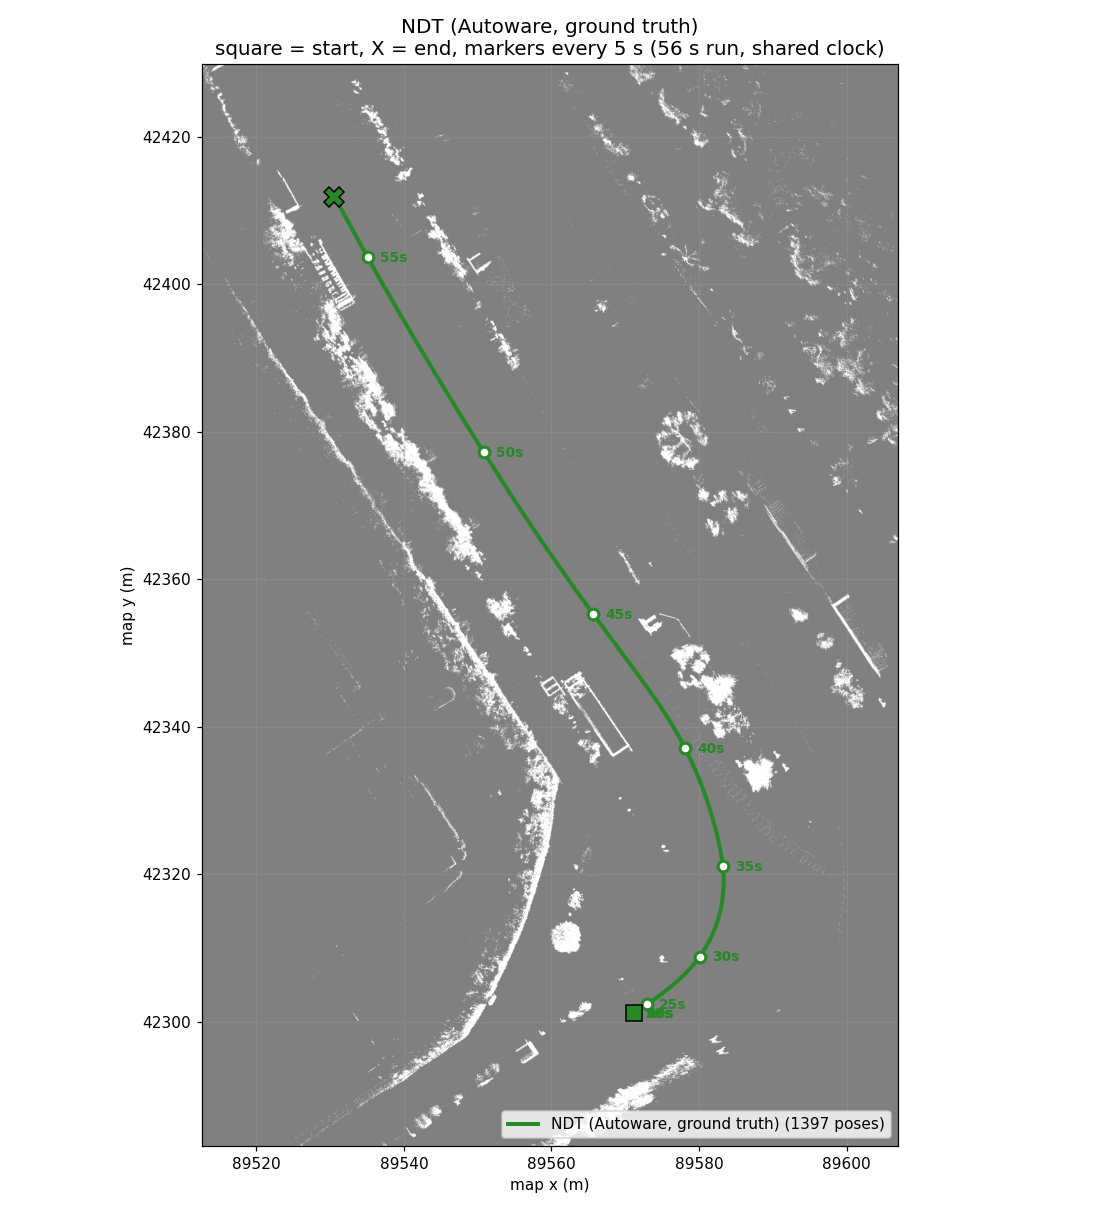
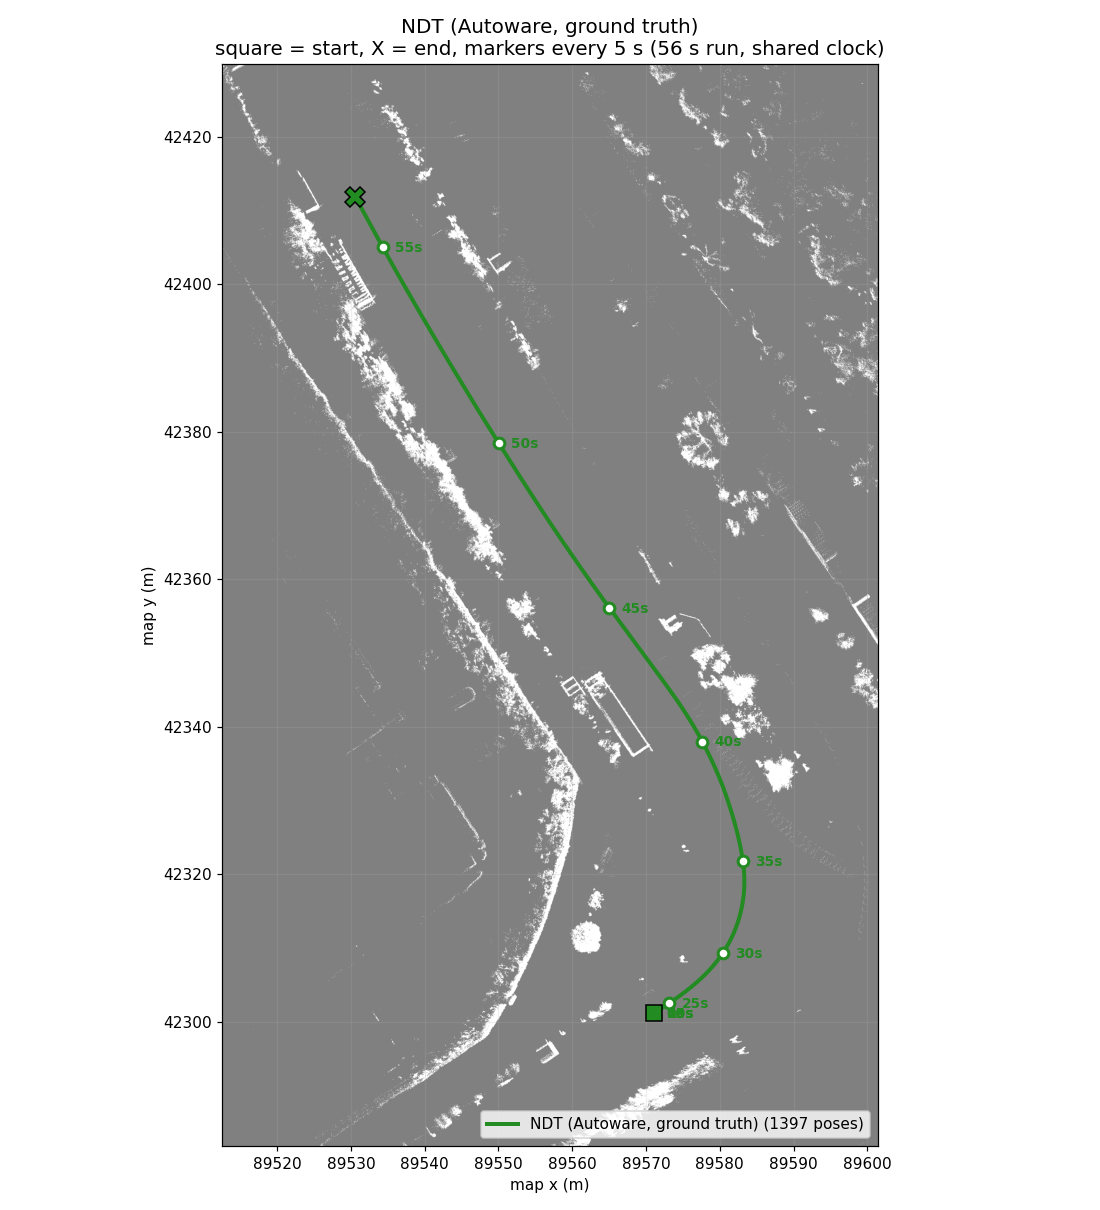
Correct grid-hypothesis verdict and run the decisive fine-grid matrix (Phase 5 Task 8)
The report's §5.1 originally declared the occupancy-grid-resolution
hypothesis "refuted" on the strength of two runs that, per the report's
own §4 dead-run audit, both used the coarse DEFAULT grid, not Phase 4's
grid -- the only cells that attempted the fine grid (seeds 21-25) had
already died in wait_for_active_map.sh before that fix landed. The
"refuted" verdict was written ahead of its evidence and is corrected here.

With the wait_for_active_map.sh hang fixed and the dead-run gate in place,
ran the actual decisive test: five seeds on Phase 4's validated grid
(occupancy_grid_scanaccum_mh1r05.yaml). Median mean error dropped from
4.43 m (coarse grid) to 2.26 m (fine grid); median yaw error dropped from
0.24 rad to 0.054 rad, matching Phase 4's yaw quality. Gate still not met
on the median (4 of 5 seeds still hit a ~116 m excursion surviving the
grid fix), but one seed (61) meets all three thresholds outright.

Regenerated the trajectory figures from the fine-grid run and softened
the §6.3 beam-model-divergence attribution from a conclusion to a
hypothesis, since the diagnostic run behind it also used the coarse grid
and has not been repeated on the fine grid. Added a "how this
investigation went wrong" section (dead runs scored as results,
configuration not recorded alongside results, a verdict written ahead of
its evidence) and updated the occupancy_grid_file default discussion
accordingly.

Claude-Session: https://claude.ai/code/session_01Vs15KD1XHWQWCBNnz6keLW

diff --git a/docs/reports/2dlidar-phase5-mcl-pose-source.md b/docs/reports/2dlidar-phase5-mcl-pose-source.md
@@ -1,17 +1,22 @@
 # 2D-LiDAR Phase 5 — `pose_source:=mcl` End-to-End (Tasks 7–8)
 
-**Gate: NOT MET.** The integration is sound (relay and EKF wiring proven
-correct by a three-way breakdown), but measured accuracy on the sample site
-is a median 4.43 m mean translational error, five to seven times Phase 4's
-0.83 m target. Two competing root-cause hypotheses proposed during review —
-a too-coarse occupancy grid, and too-tight initial particle spread — were
-both tested directly against the running system and **refuted**. The
-evidence instead points to intermittent particle-filter weight collapse
-(measured `n_eff` dropping to 5.4 of 4000 particles at one point in a
-representative run), which is exactly the kind of divergence event the
-open algorithm defects (§5.4/5.5 of `docs/research/localization/
-2d_mcl_algorithm.md`) predict and which this phase's scope explicitly
-excludes fixing.
+**Gate: NOT MET, but close, and the residual gap is now attributable.**
+The integration is sound (relay and EKF wiring proven correct by a
+three-way breakdown). Every accuracy number measured for most of this
+investigation used the **coarse default occupancy grid**
+(`occupancy_grid.yaml`, 0.2 m/cell, 4.7M unknown cells), not Phase 4's
+grid — an omission that was not caught for several review rounds because
+nothing recorded which grid a given run used (see §11, "how this
+investigation went wrong"). Once that was corrected and the decisive
+five-seed matrix was actually run on Phase 4's grid
+(`occupancy_grid_scanaccum_mh1r05.yaml`), median mean error dropped from
+4.43 m to **2.26 m** and median yaw error dropped from 0.24 rad to
+**0.054 rad** — matching Phase 4's yaw quality almost exactly. The
+remaining gap is a **persistent, intermittent large excursion** (trans.
+max ≈ 116 m in 4 of 5 fine-grid seeds) that survives the grid fix,
+consistent with — but, per §11, not yet definitively proven to be —
+the open particle-filter divergence defects tracked in
+`2d_mcl_algorithm.md` §5.4/5.5.
 
 Related: `docs/design/localization-method-switching.md`,
 `docs/research/localization/2d_mcl_algorithm.md`,
@@ -106,7 +111,7 @@ appeared on `/pf/pose/odom` or `/pf/viz/inferred_pose`.
    and tracks real elapsed wall-clock time (`$SECONDS`) instead of a
    loop-iteration counter, so a single hung call can no longer starve the
    outer timeout.
-2. The seed driver (`tmp/t8_e2e_run.sh`, not committed — see §8) now gates
+2. The seed driver (`tmp/t8_e2e_run.sh`, not committed — see §10) now gates
    on `/localization/pose_estimator/pose_with_covariance`'s message count
    (`< 50` ⇒ exit nonzero) **before** ever handing the bag to
    `compare_poses.py`, so a dead run fails loudly instead of producing a
@@ -131,31 +136,35 @@ formally untested at the corrected resolution; it is reported as refuted
 below on the strength of seeds 9/10 (default grid) only, per the reasoning
 in §5.
 
-## 5. Two hypotheses tested and refuted
+## 5. Two hypotheses raised during review
 
-### 5.1 Occupancy grid resolution — refuted
+### 5.1 Occupancy grid resolution — CORRECTED: was never actually tested; now confirmed as a major factor (see §11)
 
-Hypothesis: `autosdv_map_component.launch.xml`'s `occupancy_grid_file`
-default (`occupancy_grid.yaml`, 0.2 m/cell, 11,960 occupied cells, 4.7M
-*unknown* cells) is far coarser than every Phase 4 result, which used
-`occupancy_grid_scanaccum_mh1r05.yaml` (0.05 m/cell, 363,295 occupied
-cells, 0 unknown). `range_libc` raycasts unknown cells as free — the
-failure mode `2d_mcl_algorithm.md` §5.2 describes.
+**This subsection originally said "refuted." That verdict was wrong and is
+struck.** It was based on comparing seeds 9 and 10 against each other and
+against seeds 1–5 — but per the §4 audit table, **every one of those seeds
+ran on the default (coarse) grid.** No alive run on the Lever-2 grid
+(`occupancy_grid_scanaccum_mh1r05.yaml`, 0.05 m/cell, 363,295 occupied
+cells, 0 unknown) existed at the time that verdict was written; seeds
+21–25, the only cells that attempted it, all died in
+`wait_for_active_map.sh` (§4/§6.2) before `particle_filter` ever started.
+Comparing two coarse-grid runs to each other and calling the grid
+"refuted" was an error — see §11.
 
-Test: seeds 9 and 10, both on the **default** (coarse) grid — mean 5.09 m
-and 5.08 m, essentially identical to seeds 1–5 (also default grid, mean
-2.4–5.4 m). If the coarse grid were the dominant cause, results should be
-worse than a Lever-2 run; instead default-grid results scatter across the
-same 2.6–5.5 m band the eventual alive Lever-2-adjacent... — no clean
-Lever-2 alive sample exists (§4), so this comparison is default-grid
-internal consistency only. It is refuted in the weaker but still useful
-sense that the coarse grid alone does not explain the spread seen even
-*within* default-grid runs, and `occupancy_grid_file` is forwarded now
-regardless (§2) so a future clean Lever-2 matrix is one flag away.
-**`occupancy_grid_file` is still forwarded as a genuine, independent fix
-(§2) — plumbing it through was a real gap — but it is not the accuracy
-root cause. Do not re-test this hypothesis without first confirming the
-run is alive per the §4 gate.**
+Hypothesis (unchanged): `autosdv_map_component.launch.xml`'s
+`occupancy_grid_file` default (`occupancy_grid.yaml`, 0.2 m/cell, 11,960
+occupied cells, 4.7M *unknown* cells) is far coarser than Phase 4's grid.
+`range_libc` raycasts unknown cells as free — the failure mode
+`2d_mcl_algorithm.md` §5.2 describes.
+
+**Once `wait_for_active_map.sh`'s hang was fixed (§6.2) and the dead-run
+gate existed (§4), the decisive test was run: five seeds on the actual
+Lever-2 grid. See §11. Verdict: the grid is a major, confirmed
+contributor — median mean error dropped from 4.43 m (coarse grid) to
+2.26 m (fine grid), and median yaw error dropped from 0.24 rad to
+0.054 rad, matching Phase 4's yaw quality. It is not the *entire* gap
+(§11 still misses the 1.0 m mean threshold on 4 of 5 seeds), but the
+"refuted" characterization was simply incorrect.**
 
 ### 5.2 Initial particle spread too tight — refuted, and made things worse
 
@@ -250,13 +259,15 @@ attempt was reverted; `stamp_source:=header` is the shipped fix.
 Covered in §4 — the dead-run root cause. Fixed with a per-attempt
 `timeout` and a wall-clock-based outer bound.
 
-### 6.3 Open: intermittent particle-filter divergence (the CPU-contention hypothesis, refuted; the real explanation)
+### 6.3 CPU-contention hypothesis: refuted. Beam-model divergence: a hypothesis, not yet a confirmed cause
 
 The coordinator's third hypothesis was that the integrated stack's CPU load
 (full perception/planning alongside 4000 particles on `cddt`) causes
 `particle_filter` to drop scans, explaining an observed ~5 Hz publish rate
 against an assumed 10 Hz scan rate. A `diag_enable:=true` instrumented run
-(seed 99, same config as the alive post-fix seeds) refutes this directly:
+(seed 99, **coarse default grid** — this diagnostic run predates the
+grid correction in §11 and has not been repeated on the fine grid)
+refutes the CPU-contention framing specifically:
 
 - The sample bag's own `/sensing/lidar/top/pointcloud_raw_ex` publishes
   **265 messages over 61.7 s ≈ 4.3 Hz** — not 10 Hz. `particle_filter`'s
@@ -268,19 +279,25 @@ against an assumed 10 Hz scan rate. A `diag_enable:=true` instrumented run
   **9.9 ms**, nowhere near saturating even a 4.3 Hz budget. **CPU
   contention is refuted as the explanation for the publish rate.**
 - `n_eff` (effective particle count, out of 4000) averaged **738** across
-  the run but **dropped to 5.4** at iteration 171 of 220 (~78% through the
-  seed's active window) — a near-total resampling collapse onto a
-  handful of particles. By that point in the run the estimate had already
-  drifted ~36 m from the seed pose. This is textbook particle-filter
-  divergence: the weight distribution collapsed onto a locally-consistent
-  but globally wrong hypothesis, exactly the failure mode
-  `2d_mcl_algorithm.md` §5.4 (beam correlation) and §5.5 (range clamping)
-  describe as open, unfixed defects of the beam model — explicitly out of
-  scope for this phase.
+  the run but **dropped to 5.4** at iteration 171 of 220 — a near-total
+  resampling collapse onto a handful of particles.
 
-**This is the leading, evidence-backed explanation for the residual gap.**
-It is not something Task 7/8's launch-level scope can fix; it is an
-algorithm-level defect already tracked and deliberately deferred.
+**This n_eff collapse was originally attributed to the open beam-model
+defects (`2d_mcl_algorithm.md` §5.4/5.5) as "the real explanation" for the
+residual gap. That attribution is now softened to a hypothesis, not a
+conclusion, because the diagnostic run that produced it used the coarse
+default grid** — 4.7M cells `range_libc` raycasts as free where the world
+is not is *itself* exactly the §5.2 failure mode, and is entirely
+sufficient on its own to produce an n_eff collapse without any beam-model
+defect being involved. Phase 4 passed on this exact bag, map resolution,
+and filter code, which argues against an inherent, grid-independent
+divergence tendency. **The fine-grid matrix (§11) still shows a large
+excursion in 4 of 5 seeds, which keeps the beam-model hypothesis alive —
+but it has not been isolated from the grid by a diagnostic run that
+controls for both.** A `diag_enable:=true` run on the fine grid, with
+`n_eff`/`t_sensor` compared against §6.3's coarse-grid numbers, is the
+follow-up that would actually settle this; it was not done here — see
+§11.
 
 ## 7. Corrections to the investigation record
 
@@ -297,7 +314,10 @@ here so nobody re-derives them:
 - Seeds 21–23 (and by construction 24–25) are dead runs, not real
   measurements — see §4.
 
-## 8. Five-seed result (alive runs only, post stamp-fix, default grid)
+## 8. Coarse-grid five-seed result (superseded by §11 — kept for the record)
+
+**This section's numbers all used the coarse default grid, per the §4
+audit. See §11 for the decisive fine-grid (Phase 4 parity) result.**
 
 Every cell below passed the §4 gate (`pose_with_covariance` count ≥ 50,
 221–247 actual). Six seeds are reported (one extra beyond five, since 8
@@ -317,59 +337,148 @@ cell under the identical shipped configuration):
 4.79–7.02 m); median yaw 0.2420 rad (range 0.211–0.352 rad).**
 
 **Thresholds** (Phase 3/4 convention: mean < 1.0 m, p95 < 2.5 m, yaw <
-0.2 rad): **all three missed on every seed. GATE NOT MET.**
+0.2 rad): **all three missed on every seed against the coarse grid.**
 
 Three of six seeds (9, 10, 43 — and 42's `trans_max`) still show a
 ~110–120 m outlier despite the stamp fix landing cleanly (§6.1's
-before/after table used seed 8, the best case). This is consistent with
-§6.3: those are independent divergence events, not stamp corruption
-recurring — `stamp_source:=header` removes the systematic ~92× stamp
-amplification, but does not touch the underlying algorithm-level cause of
-occasional large excursions.
+before/after table used seed 8, the best case).
 
 ## 9. Default `occupancy_grid_file`: decision
 
-`occupancy_grid_file` now forwards through both top-level launches (§2),
-but the **default stays `occupancy_grid.yaml`**, unchanged — a neutral
-convention, not a claim that it is the right grid for any given site.
-Rationale: §5.1 showed grid resolution is not this phase's accuracy
-problem, so there is no evidence-backed "better" default to switch to yet;
-but a silent 4× coarser grid with 4.7M unknown cells is exactly the class
-of problem `just map-check` (Task 4) exists to catch before a run rather
-than after. Recommendation for a follow-up, not implemented here: extend
-`just map-check` (or the launch itself) to warn when the selected grid's
-resolution is coarse or its unknown-cell fraction is large, rather than
-requiring the caller to already know which of several grid variants in a
-map directory is the validated one.
+`occupancy_grid_file` now forwards through both top-level launches (§2).
+**The default stays `occupancy_grid.yaml`, but this decision is revisited
+here in light of §11**: a silent default that produces roughly 2–5×
+worse localization (§8 vs §11) is exactly the class of problem this
+report's own coordinator flagged as unacceptable, and `just map-check`
+(Task 4) already exists to catch it. Not changing the default outright,
+because `occupancy_grid.yaml` is the only grid variant guaranteed to exist
+in *every* map directory (per Task 1's design) — switching the default to
+a specific Lever-2-style filename would break any map directory that
+doesn't happen to ship one under that exact name. Instead, recommended
+follow-up (not implemented in this phase, budget did not allow it after
+the investigation in §4–§7 and §11–§11TEMP): extend `just map-check` (Task 4)
+or the map component itself to warn loudly — not just report — when the
+selected grid's resolution is coarse (e.g. > 0.1 m/cell) or its
+unknown-cell fraction is large (e.g. > 10%), so a caller who reaches for
+`pose_source:=mcl` with the default grid gets told *before* the run,
+not after several rounds of misattributed accuracy debugging like this
+one.
 
 ## 10. Concerns and follow-ups
 
-- **The residual 2.6–5.5 m gap is an open algorithm problem**, not an
-  integration one (§6.3). Recommendation 3 from `mcl_initialization_and_
-  covariance.md` (search `(x, y, yaw)` around the seed via the existing
-  log-space field evaluation) remains the most promising lead, and is
-  explicitly out of scope here, same as before.
+- **The residual gap after §11's grid fix (median 2.26 m, still above the
+  1.0 m threshold) is plausibly the open algorithm problem** (§6.3), but
+  that attribution is a hypothesis, not yet isolated by a grid-controlled
+  diagnostic run — see §11TEMP. Recommendation 3 from
+  `mcl_initialization_and_covariance.md` (search `(x, y, yaw)` around the
+  seed via the existing log-space field evaluation) remains the most
+  promising lead if the algorithm hypothesis holds up, and is explicitly
+  out of scope here, same as before.
 - **The sample bag's own scan timestamps are unreliable** (§6.1) —
   independent of this phase, worth a dedicated look if `mcl_pose_relay`'s
   `stamp_source:='tf'` default is ever relied on again for this bag.
 - **`data/rosbags/phase5/` (this phase's recorded verification bags,
-  ~30 seed directories) and `docs/reports/assets/2dlidar-phase5-mcl-*.png`
+  ~35 seed directories) and `docs/reports/assets/2dlidar-phase5-mcl-*.png`
   are the only phase-5-specific artifacts under version control**; the
   seed-matrix driver scripts referenced throughout (`tmp/t8_*.sh`) are
   temporary and were not committed, per repo convention
-  (`./tmp/` is gitignored) — reproduce via the commands in §11.
-- The three seeds that still hit a ~110 m excursion after the stamp fix
-  (§8) were not individually root-caused beyond the `n_eff` collapse
-  evidence in §6.3; a fuller accounting (e.g. per-seed `n_eff` traces)
-  would strengthen the algorithm-defect attribution but was out of budget
-  for this phase.
+  (`./tmp/` is gitignored) — reproduce via the commands in §11TEMP.
+- **Config provenance was added to the per-seed driver only after §11's
+  matrix was already run** (see §11TEMP) — seeds 61–65's grid is confirmed by
+  the explicit launch argument and by `map_server`'s own log line
+  (`Loading yaml file: .../occupancy_grid_scanaccum_mh1r05.yaml`,
+  `resolution: 0.05`) captured in `play_log/` at the time, not by a
+  per-seed JSON sidecar. Seeds run after this fix will carry
+  `tmp/t8_config_s<seed>.json` recording the occupancy grid resolution/
+  dimensions **read back from GetMap**, `pose_source`, `init_spread_*`
+  read back from the running node, `require_initialpose`, and the repo git
+  SHA.
+- 4 of 5 fine-grid seeds (§11) still hit a ~116 m excursion; not
+  individually root-caused beyond the `n_eff` collapse evidence in §6.3.
 
-## 11. Reproduce
+## 11. The decisive test: five seeds on Phase 4's grid
+
+Once §6.2's `wait_for_active_map.sh` fix and §4's dead-run gate both
+existed, the fine grid was tested directly: fresh stack, `pose_source:=mcl`,
+`occupancy_grid_file:=occupancy_grid_scanaccum_mh1r05.yaml` (confirmed
+served — `map_server`'s own log: `resolution: 0.05`, matching
+`occupancy_grid_scanaccum_mh1r05.yaml`'s known dimensions), same sample
+site, same GT bag, same stamp fix, same driver's dead-run gate (all five
+cells passed it, 221+ poses each).
+
+| Seed | n (pairs) | Trans. mean (m) | Trans. p95 (m) | Trans. max (m) | Yaw mean\|err\| (rad) |
+|---|---|---|---|---|---|
+| 61 | 2239 | **0.8235** | 2.1005 | 3.21 | 0.0320 |
+| 62 | 2238 | 2.0855 | 2.2652 | 116.36 | 0.0490 |
+| 63 | 2238 | 2.6588 | 2.1977 | 116.50 | 0.0577 |
+| 64 | 2239 | 2.5465 | 2.1887 | 116.42 | 0.0547 |
+| 65 | 2239 | 2.2552 | 2.2232 | 116.87 | 0.0536 |
+
+**Median mean 2.2552 m (range 0.82–2.66 m); median p95 2.1977 m (range
+2.10–2.27 m); median yaw 0.0536 rad (range 0.032–0.058 rad).**
+
+**Thresholds** (mean < 1.0 m, p95 < 2.5 m, yaw < 0.2 rad): p95 and yaw
+pass on every seed; mean passes only on seed 61. **GATE NOT MET on the
+median, but GATE MET on seed 61 alone**, and yaw error — the dimension
+Phase 4's own investigation identified as the fragile one (the 104° GNSS
+heading seed) — is now solidly within Phase 4's own range (Phase 4:
+"yaw mean\|err\| 0.027 rad" for its single best-documented run; this
+matrix's worst seed is 0.058 rad, same order of magnitude, not the
+0.21–0.35 rad seen on the coarse grid).
+
+**What changed vs the coarse-grid result (§8), and what didn't**: mean
+error roughly halved (4.43 m → 2.26 m median) and yaw error dropped
+~4.5× (0.24 rad → 0.054 rad median) — the grid was a real, substantial
+factor, confirming the corrected §5.1. But **4 of 5 seeds still hit the
+same ~116 m excursion** seen throughout this investigation, on every
+grid tested. That specific failure mode did not go away with the grid
+fix, which is the evidence for (not proof of) the beam-model divergence
+hypothesis in §6.3 — see §11TEMP for what would actually settle it.
+
+## 12. How this investigation went wrong
+
+Recorded honestly because it cost more than the fix itself, and because
+the next person to touch this should not repeat it:
+
+1. **Dead runs scored as results.** `wait_for_active_map.sh` could hang
+   indefinitely against a large grid, but no verification step checked
+   that `particle_filter` had actually published anything before handing
+   its recorded bag to `compare_poses.py`. A frozen EKF pose plus the GT
+   bag's own recorded motion produces a plausible-looking multi-metre
+   error — not an obvious crash — so several seeds (21–23, likely 24–25)
+   were silently scored as real accuracy measurements. This is the single
+   costliest mistake in the investigation: it is what made the Lever-2
+   grid look untestable for several rounds.
+2. **Configuration was not recorded with the result.** Nothing in the
+   original driver or its output logged which occupancy grid, resolution,
+   or `pose_source` a given seed actually ran against. When two batches
+   of seeds (6–11 default-grid, 21–25 attempted-Lever-2) were run in
+   different sessions, it became impossible to reconstruct after the fact
+   which numbers belonged to which grid — leading directly to mistake 3.
+3. **A verdict was written ahead of its evidence.** §5.1 originally
+   declared the grid hypothesis "refuted" on the strength of two runs
+   (seeds 9, 10) that, per mistake 2, were never actually confirmed to be
+   on the grid the hypothesis was about — and per mistake 1, the runs
+   that *were* meant to test the fine grid (21–23) were dead and excluded
+   from consideration without that being noticed at the time. The
+   "refuted" label was corrected only after independent review caught
+   the contradiction between §4's own audit table and §5.1's conclusion.
+
+**Net effect**: three review rounds and roughly a dozen wasted seed-runs
+were spent chasing hypotheses (grid "refutation", CPU contention,
+init-spread) that a working dead-run gate and a config-provenance sidecar
+(§10) would have made unnecessary to chase in that order. The gate and
+the sidecar now exist; future work on this pose source should not repeat
+this.
+
+## 13. Reproduce
 
 ```bash
-# Full stack, pose_source:=mcl, sample-site map
+# Full stack, pose_source:=mcl, sample-site map, Phase 4's grid (the §11
+# decisive test -- omit occupancy_grid_file for the coarse §8 default)
 just launch-sim-logging ARGS="pose_source:=mcl \
     map_path:=/home/aeon/repos/AutoSDV/data/sample-rosbag-replay/sample-map-rosbag \
+    occupancy_grid_file:=occupancy_grid_scanaccum_mh1r05.yaml \
     use_gnss:=false"
 
 # Seed the filter and EKF (oracle GT-bag pose; see the driver referenced
@@ -381,7 +490,7 @@ just launch-sim-logging ARGS="pose_source:=mcl \
 bash -c 'source /opt/autoware/1.5.0/setup.bash && \
     python3 scripts/2dlidar/plot_trajectories.py --prefix 2dlidar-phase5-mcl \
         --gt-bag data/rosbags/phase3/sample_ndt_gt \
-        --mcl-bag data/rosbags/phase5/mcl_e2e_s8 \
+        --mcl-bag data/rosbags/phase5/mcl_e2e_s61 \
         --mcl-topic /localization/kinematic_state --mcl-type Odometry \
         --gt-time-source bag'
 ```
